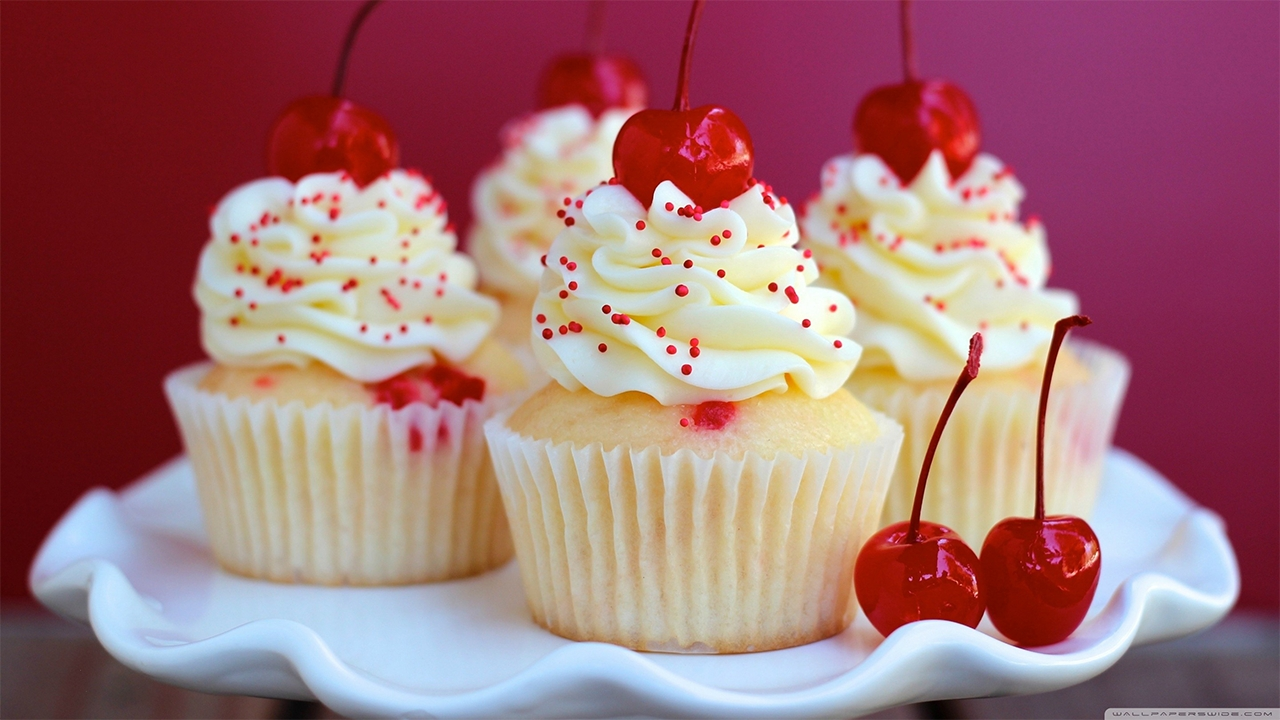
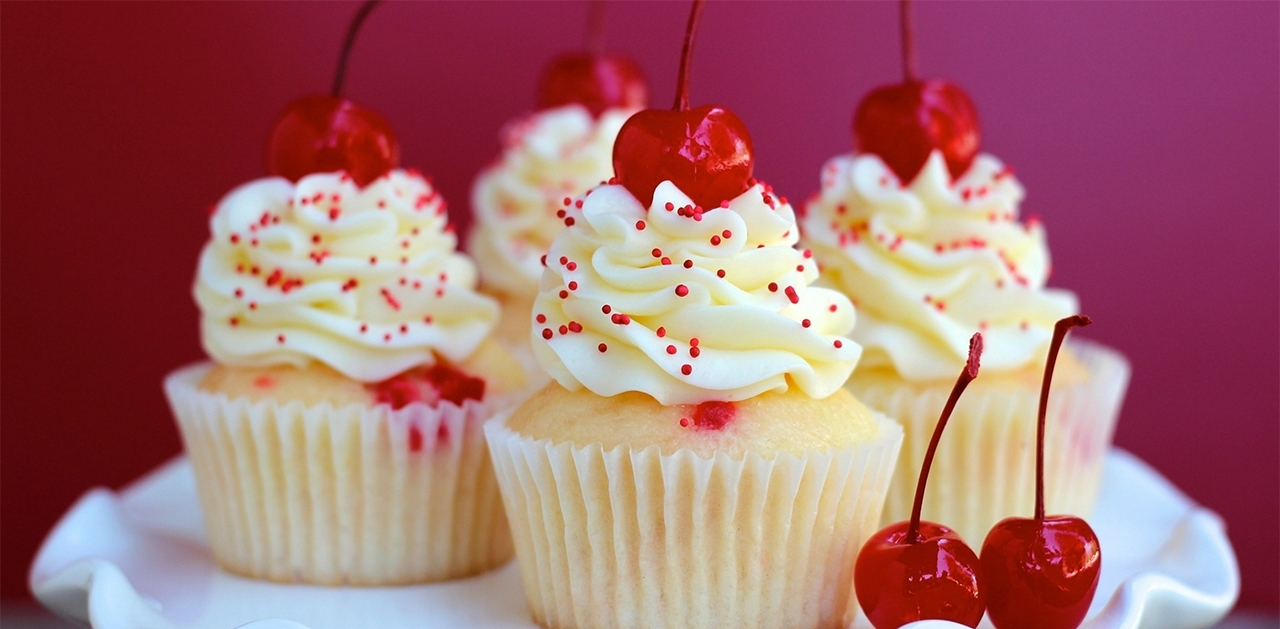
new

diff --git a/index.css b/index.css
@@ -7,6 +7,19 @@ body, html {
 * {
   box-sizing: border-box;
 }
+#intro {
+  width: 100%;
+  position: relative; 
+  /* background: url("../img/header.jpg") center bottom no-repeat; */
+  background: url("images/banner.jpg") center bottom no-repeat;
+  background-size: cover;
+  padding: 600px 0 120px 0;
+}
+
+#intro .intro-img {
+  width: 50%;
+  float: right;
+}
 .banner{
    max-width: 100%;
    height: auto; 

diff --git a/footer.css b/footer.css
@@ -3,13 +3,12 @@ html{
 }
 
 footer{
-	height:100px;
+	height:200px;
 	width:100%;
 	background-color:#EF3E64;
 }
 .footer_image {
-	width: 50px;
-	height: 50px;
+	width: 150px;
 	margin:1.3em;
 }
 p{

diff --git a/index.php b/index.php
@@ -6,20 +6,25 @@
 <link rel="stylesheet" href="https://use.fontawesome.com/releases/v5.8.2/css/all.css" integrity="sha384-oS3vJWv+0UjzBfQzYUhtDYW+Pj2yciDJxpsK1OYPAYjqT085Qq/1cq5FLXAZQ7Ay" crossorigin="anonymous">
 <body>
 
+<section id="intro" class="clearfix">
+    <div class="container">
+    </div>
+  </section>
+  <!--
   <div class="banner">
     <img src="images/banner.jpg" alt="banner image">
   </div>
-  
+-->
   <section>
    
    
    
    <p class="tagline">
-   <i class="fas fa-quote-left fa-5x"></i>
+   <i class="fas fa-quote-left fa-2x"></i>
    Cakes are special. Every birthday, every celebration ends <br/>
    with something sweet, a cake, and people remember. <br/> 
    It's all about the memories.
-    <i class="fas fa-quote-right fa-5x"></i>
+    <i class="fas fa-quote-right fa-2x"></i>
    </p>
 	
   </section>

diff --git a/header.php b/header.php
@@ -15,13 +15,13 @@
 		      </div>
 			</div>
 			<ul>
-				<a href="#"><li>Home</li></a>
+				<a href="index.php"><li>Home</li></a>
 				<a href="#"><li>About</li></a>
-				<a href="#"><li>Cakes</li></a>
-				<img class="image" src="images/logo.jpg" alt="cake logo"/>
+				<a href="products/addcake.php"><li>Cakes</li></a>
+				<img class="image" src="images/cakelogo.png" alt="cake logo"/>
 				<a href="#"><li>Contact</li></a>
 				<a href="#"><li>FAQ</li></a>
-				<a href="#"><li>Login</li></a>
+				<a href="products/login.php"><li>Login</li></a>
 			</ul>
 			
 		</nav>

diff --git a/products/signup.php b/products/signup.php
@@ -16,7 +16,7 @@ if(isset($_POST['submit']))
 
   if($password == $cpassword){
 
-       <!--$hash = password_hash($password, PASSWORD_DEFAULT);-->
+       //$hash = password_hash($password, PASSWORD_DEFAULT);
        $adduser = $c->addClients($userName,$email,$password,$db);
        $message = $userName."thank you for signup";
     }

diff --git a/products/addcake.php b/products/addcake.php
@@ -1,6 +1,7 @@
 <?php
 require_once 'database.php';
 require_once 'cakes.php';
+include '../header.php';
 
 if(isset($_POST['add'])){
     //$db = Database::getDb();
@@ -122,3 +123,4 @@ if(isset($_POST['add'])){
 
 </body>
 </html>
+<?php include '../footer.php';

diff --git a/footer.php b/footer.php
@@ -1,5 +1,5 @@
 <footer>
   <link rel="stylesheet" href="footer.css">
-  <p><img class="footer_image" src="images/logo.jpg" alt="logo"></p>
+  <p><img class="footer_image" src="images/cakelogo.png" alt="logo"></p>
 </footer>
 </html>
